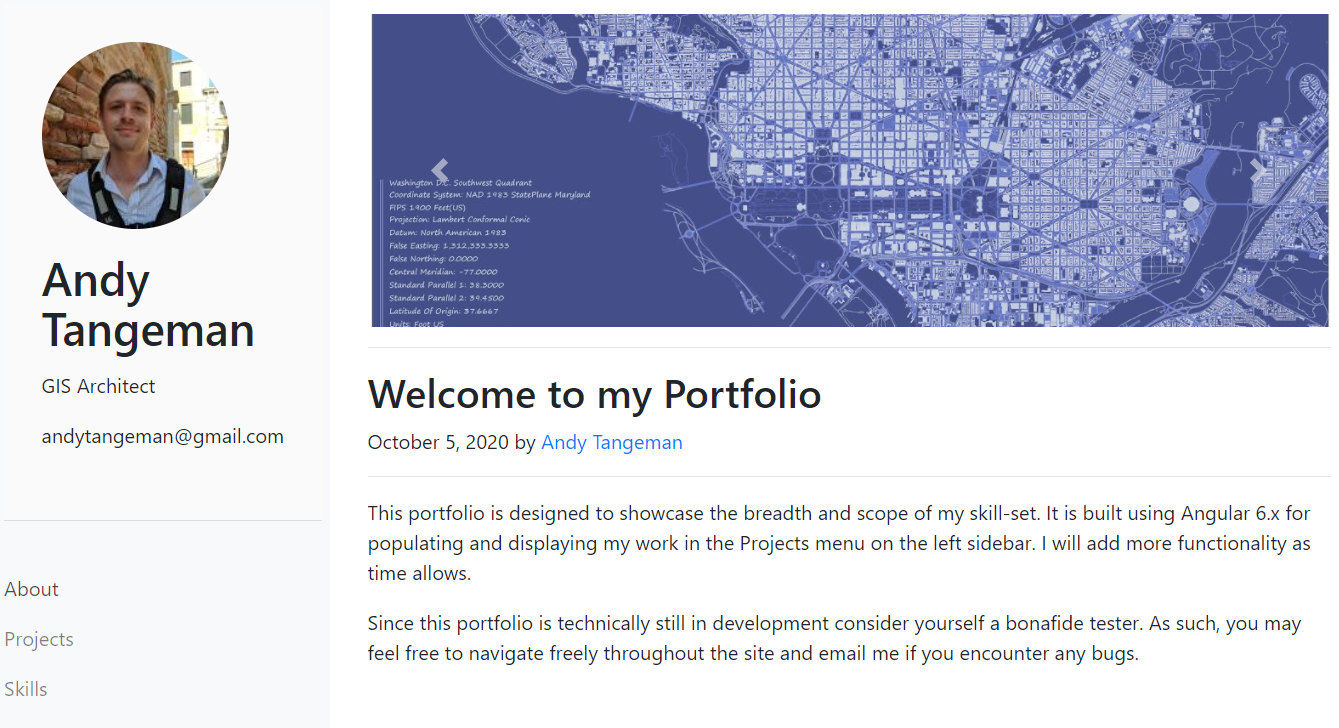
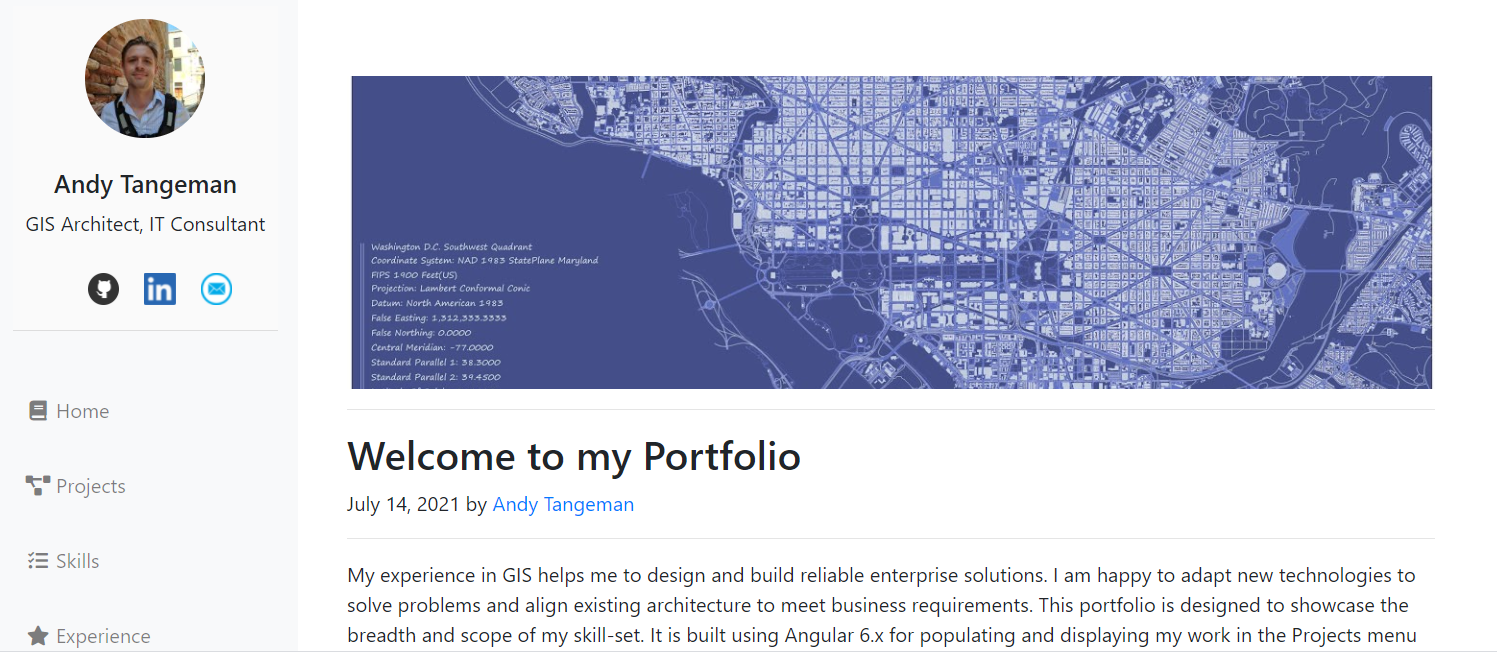
added Google Analytics

diff --git a/src/app/sidebar-nav/sidebar-nav.component.html b/src/app/sidebar-nav/sidebar-nav.component.html
@@ -1,7 +1,7 @@
 <nav class="navbar navbar-expand navbar-light bg-light flex-lg-column flex-row align-items-start py-2">
     <div class="collapse navbar-collapse ">
         <ul class="flex-md-column flex-row navbar-nav w-200 justify-content-between">
-            <li class="nav-item logo">
+            <li class="nav-item logo d-none d-sm-block">
                 <img class="circle" src="https://github.com/atangeman.png?size=150">
                 <br>
                 <h5>Andy Tangeman</h5>
@@ -18,23 +18,23 @@
             <hr />
             <li class="nav-item">
                 <a class="nav-link pl-0" [routerLink]="['/about']"><i class="fa fa-book fa-fw"></i> <span
-                        class="d-none d-md-inline">Home</span></a>
+                        class="d-none d-md-inline"> Home</span></a>
             </li>
             <li class="nav-item">
-                <a class="nav-link pl-0" [routerLink]="['/projects']"><i class="fa fa-cog fa-fw"></i> <span
-                        class="d-none d-md-inline">Projects</span></a>
+                <a class="nav-link pl-0" [routerLink]="['/projects']"><i class="fa fa-project-diagram fa-fw"></i> <span
+                        class="d-none d-md-inline"> Projects</span></a>
             </li>
             <li class="nav-item">
-                <a class="nav-link pl-0" [routerLink]="['/skills']"><i class="fa fa-heart codeply fa-fw"></i> <span
-                        class="d-none d-md-inline">Skills</span></a>
+                <a class="nav-link pl-0" [routerLink]="['/skills']"><i class="fa fa-tasks codeply fa-fw"></i> <span
+                        class="d-none d-md-inline"> Skills</span></a>
             </li>
             <li class="nav-item">
                 <a class="nav-link pl-0" [routerLink]="['/experience']"><i class="fa fa-star codeply fa-fw"></i> <span
-                        class="d-none d-md-inline">Experience</span></a>
+                        class="d-none d-md-inline"> Experience</span></a>
             </li>
             <li class="nav-item">
-                <a class="nav-link pl-0" href="#"><i class="fa fa-star fa-fw"></i> <span
-                        class="d-none d-md-inline">Resume</span></a>
+                <a class="nav-link pl-0" href="https://drive.google.com/file/d/13FFTAFJ55mwSD_qdk7d5ggKwa96BXrty/view?usp=sharing"><i class="fa fa-file-alt fa-fw"></i> <span
+                        class="d-none d-md-inline"> Resume</span></a>
             </li>
         </ul>
     </div>

diff --git a/src/index.html b/src/index.html
@@ -2,12 +2,27 @@
 <html lang="en">
 <head>
   <meta charset="utf-8">
-  <title>PortfolioV2</title>
-  <base href="/">
+  <meta prefix="og: http://ogp.me/ns#" property="og:url" content="https://atangeman.github.io/portfolio-v2" />
+  <meta prefix="og: http://ogp.me/ns#" property="og:site_name" content="Portfolio" />
+  <meta prefix="og: http://ogp.me/ns#" property="og:type" content="website" />
+  <meta prefix="og: http://ogp.me/ns#" property="og:title" content="Portfolio" />
+  <meta prefix="og: http://ogp.me/ns#" property="og:description" content="My experience in GIS helps me to design and build reliable enterprise solutions. This portfolio showcases my work in GIS and programming." />
+  <meta prefix="og: http://ogp.me/ns#" property="og:image" content="https://atangeman.github.io/portfolio-v2/assets/portfoliov2.png" />
   <meta name="viewport" content="width=device-width, initial-scale=1">
+  <base href="/">
   <link rel="icon" type="image/x-icon" href="favicon.ico">
+  <link rel="stylesheet" href=
+"https://cdnjs.cloudflare.com/ajax/libs/font-awesome/5.9.0/css/all.css">
+</link>
 </head>
 <body>
   <app-root></app-root>
+  <script async src="https://www.googletagmanager.com/gtag/js?id=G-JGWYP346YL"></script>
+  <script>
+    window.dataLayer = window.dataLayer || [];
+    function gtag(){dataLayer.push(arguments);}
+    gtag('js', new Date());
+    gtag('config', 'G-JGWYP346YL');
+  </script>
 </body>
 </html>

diff --git a/src/app/about/about.component.html b/src/app/about/about.component.html
@@ -20,7 +20,10 @@
           </h2>
           <p class="blog-post-meta">July 14, 2021 by <a href="#">Andy Tangeman</a></p>
           <hr>
-          <p>This portfolio is designed to showcase the breadth and scope of my skill-set. It is built using Angular 6.x for populating and displaying my work in the Projects menu on the left sidebar. I will add more functionality 
+          <p>
+            My experience in GIS helps me to design and build reliable enterprise solutions. I am happy to adapt new technologies to solve problems and align existing architecture to meet business requirements.
+            
+            This portfolio is designed to showcase the breadth and scope of my skill-set. It is built using Angular 6.x for populating and displaying my work in the Projects menu on the left sidebar. I will add more functionality 
             as time allows. 
           </p>
         </div>

diff --git a/src/app/app.component.ts b/src/app/app.component.ts
@@ -1,10 +1,26 @@
 import { Component } from '@angular/core';
+import { Router, NavigationEnd } from '@angular/router';
+
+
+declare let gtag: Function;
 
 @Component({
   selector: 'app-root',
   templateUrl: './app.component.html',
   styleUrls: ['./app.component.css']
 })
+
 export class AppComponent {
-  title = 'portfolio-v2';
+  constructor(public router: Router) {
+    this.router.events.subscribe(event => {
+      if (event instanceof NavigationEnd) {
+        gtag('config', 'G-JGWYP346YL',
+          {
+            'page_path': event.urlAfterRedirects
+          }
+        );
+      }
+    }
+    )
+  }
 }

diff --git a/src/styles.css b/src/styles.css
@@ -1,3 +1,5 @@
+
+
 h4 {
     font-size: 2.28rem;
     line-height: 2.508rem;
